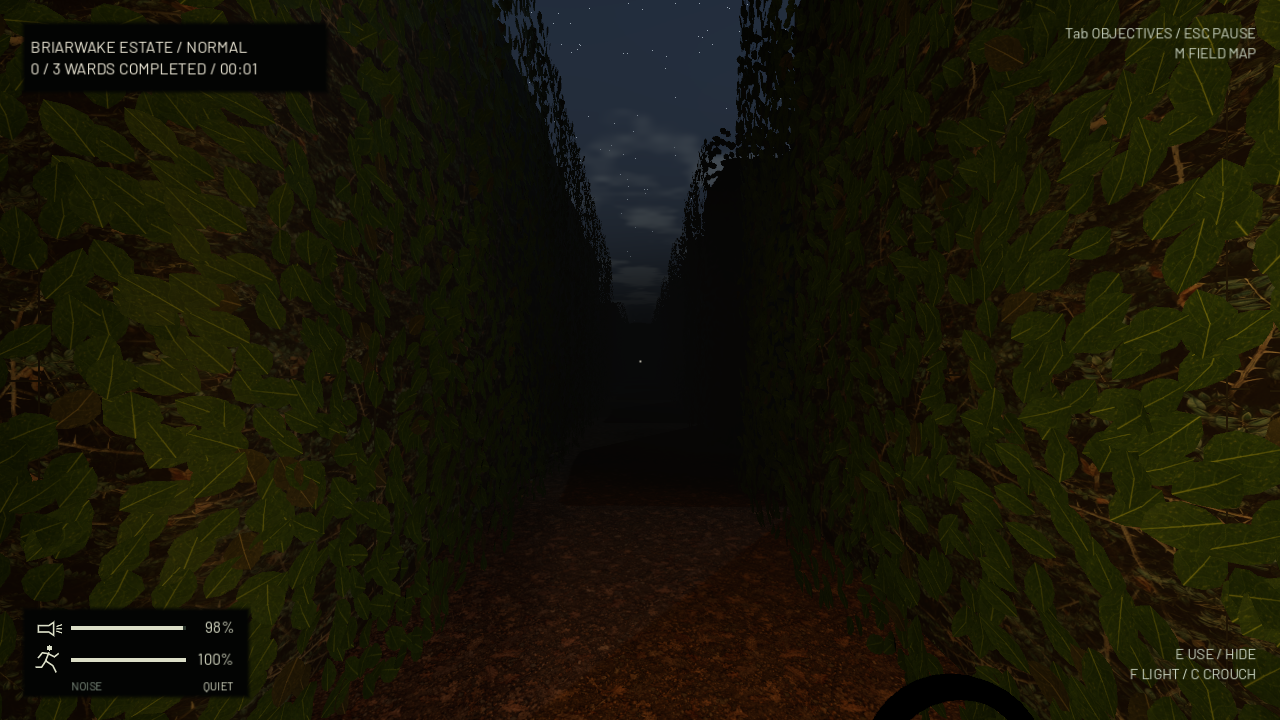
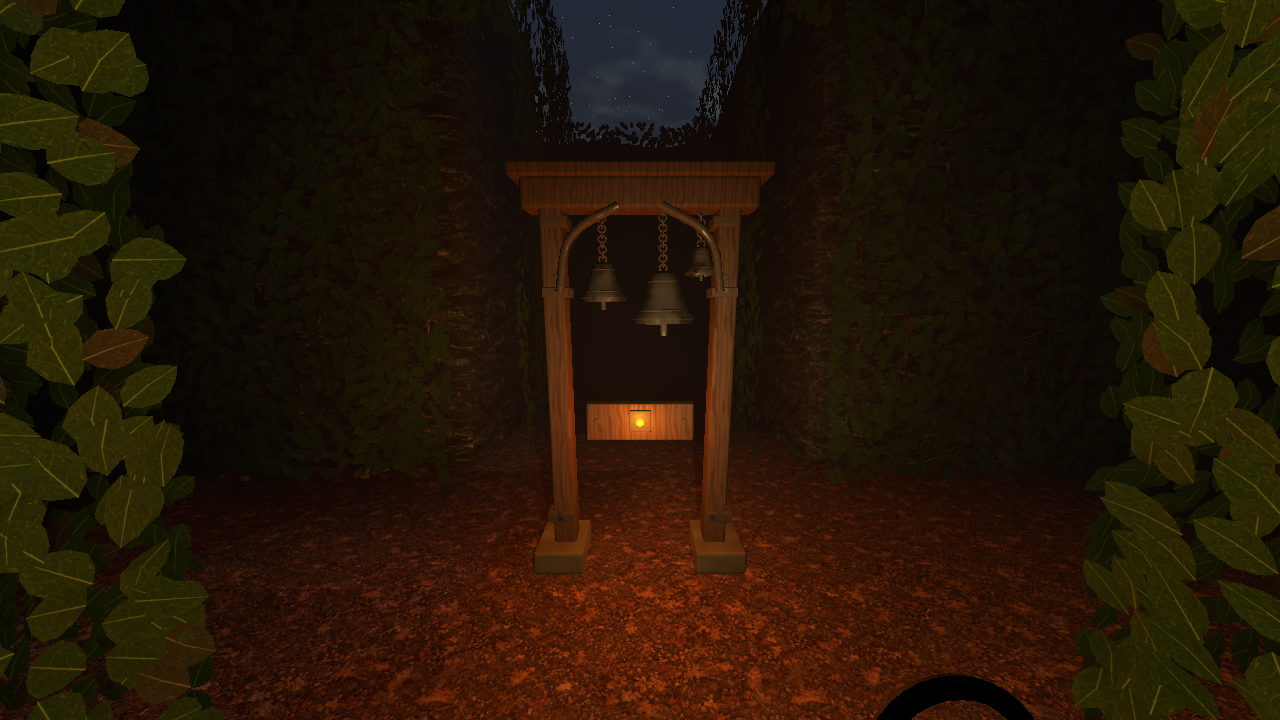
feat: polish maze passages and Easy routes

diff --git a/docs/index.html b/docs/index.html
@@ -23,10 +23,10 @@
     <img class="hero-image" src="./assets/station-key-art.png" alt="Key art: a lone figure beneath a red beacon in a flooded pumping station" fetchpriority="high">
     <div class="hero-shade"></div>
     <div class="hero-copy">
-      <p class="eyebrow"><span class="signal" aria-hidden="true"></span> FREE PLAYABLE ALPHA <span class="build-number">/ 0.23.13</span></p>
+      <p class="eyebrow"><span class="signal" aria-hidden="true"></span> FREE PLAYABLE ALPHA <span class="build-number">/ 0.23.14</span></p>
       <h1 id="game-title">THE HOLLOW<br><span>BELOW</span><i>.</i></h1>
       <p class="tagline">Something down here<br>still remembers your name.</p>
-      <div class="hero-actions"><a class="button primary" href="https://github.com/RyanVerWey/the-hollow-below-alpha/releases/download/v0.23.13/The-Hollow-Below-Alpha-Setup.exe" data-installer-download download>DOWNLOAD INSTALLER <span aria-hidden="true">↓</span></a></div>
+      <div class="hero-actions"><a class="button primary" href="https://github.com/RyanVerWey/the-hollow-below-alpha/releases/download/v0.23.14/The-Hollow-Below-Alpha-Setup.exe" data-installer-download download>DOWNLOAD INSTALLER <span aria-hidden="true">↓</span></a></div>
       <p class="platform-note">Windows 10 / 11 · Solo / 2–4 player co-op · Keyboard &amp; mouse</p>
     </div>
     <div class="hero-bottom"><span>BLACKWATER MUNICIPAL AUTHORITY<br><small>INCIDENT RECORD / 013</small></span><button class="sound-toggle" id="sound-toggle" type="button" aria-pressed="false"><span aria-hidden="true">♫</span> LISTEN TO THE STATION</button><span class="key-art-label">KEY ART / NOT A GAMEPLAY CAPTURE</span></div>
@@ -45,10 +45,10 @@
   <section class="play-section section" id="play" aria-labelledby="play-title">
     <div class="play-heading"><p class="eyebrow">02 / ACCESS AUTHORIZED</p><h2 id="play-title">GO BELOW.</h2><p>Free alpha. No account. No engine to install.</p></div>
     <div class="download-panel">
-      <div class="release-line"><span class="availability"><span class="signal" aria-hidden="true"></span> ALPHA AVAILABLE</span><span id="release-version">BUILD 0.23.13</span></div>
+      <div class="release-line"><span class="availability"><span class="signal" aria-hidden="true"></span> ALPHA AVAILABLE</span><span id="release-version">BUILD 0.23.14</span></div>
       <h3>WINDOWS ALPHA</h3><p class="download-description">The full game and its own launcher in one Windows installer. Install once, then return through your desktop or Start menu shortcut.</p>
-      <a class="button primary download-launcher" href="https://github.com/RyanVerWey/the-hollow-below-alpha/releases/download/v0.23.13/The-Hollow-Below-Alpha-Setup.exe" data-installer-download download>DOWNLOAD INSTALLER <span aria-hidden="true">↓</span></a>
-      <p class="download-facts" id="download-facts">Windows 10 / 11, 64-bit · Full installer: 391.1 MB</p>
+      <a class="button primary download-launcher" href="https://github.com/RyanVerWey/the-hollow-below-alpha/releases/download/v0.23.14/The-Hollow-Below-Alpha-Setup.exe" data-installer-download download>DOWNLOAD INSTALLER <span aria-hidden="true">↓</span></a>
+      <p class="download-facts" id="download-facts">Windows 10 / 11, 64-bit · Full installer: 394.6 MB</p>
       <ol class="install-steps"><li>Open the installer and choose <b>Install</b>.</li><li>Open the launcher and choose <b>Play game</b>.</li><li>Return using your desktop or Start menu shortcut.</li></ol>
       <p class="alpha-note">Early, unsigned alpha software. Windows may show a publisher warning. There is no save system yet.</p>
       <p class="launcher-features">Game-file verification · Offline play · No administrator needed<br>Uninstall through Windows Installed apps.</p>
@@ -58,7 +58,7 @@
   <section class="field-section section" id="field-notes" aria-labelledby="notes-title">
     <div class="field-heading"><p class="eyebrow">03 / FIELD NOTES</p><h2 id="notes-title">BEFORE YOU ENTER.</h2></div>
     <div class="field-grid"><div class="controls"><h3>Keep these close.</h3><dl><div><dt>Move</dt><dd>W A S D</dd></div><div><dt>Look</dt><dd>MOUSE / ARROWS</dd></div><div><dt>Sprint</dt><dd>SHIFT</dd></div><div><dt>Crouch</dt><dd>C / CTRL</dd></div><div><dt>Flashlight</dt><dd>F</dd></div><div><dt>Use / hide</dt><dd>E</dd></div><div><dt>Objectives</dt><dd>TAB</dd></div><div><dt>Survey in staging</dt><dd>M</dd></div><div><dt>Difficulty in staging</dt><dd>R</dd></div><div><dt>Pause</dt><dd>ESC</dd></div></dl></div>
-    <div class="faq"><details open><summary>What is in this alpha?</summary><p>Godot alpha 0.23.13. Blackwater’s surface gate is recessed into a real wall opening, with a concrete bulkhead, steel frame and service stairs behind the doors. The doors no longer stand in the middle of the room. Everyone in a co-op group should update. Play solo or host private co-op for 2–4 players using invite codes. Choose from four survivors and save your own display name. The host selects either level and difficulty. Survivors start separately, share objectives and map discoveries, and must each escape. Death or escape lets you spectate. The host must stay connected; online menus do not pause the hunt. Internet is required for co-op; solo play remains offline. Two playable nightmares: Blackwater pumping station and Briarwake Estate, a moonlit hedge maze. Briarwake has a blood-moon sky, drifting haze, damp dirt paths and joined hedges. Its farmer wears a stitched hood and leather apron, carries a two-handed chainsaw, and uses authored walk, run and three attack animations. New iron oil lanterns mark corridor turns. Its chainsaw attacks have a visible windup, a committed swing and recovery; cover and retreat can prevent a hit. Briarwake has a safe potting house, dim lanterns, cold haze, tool shelters and the Thornkeeper: a demonic farmer carrying a chainsaw. Restore three wards in any order. The Lantern Ward strengthens guide lights and doubles portable-lantern endurance; the Wind Bell adds player tracking and a reusable nearby stagger; the Root Altar opens three thorn shortcuts. Any ward unlocks the M-toggle survey; seen objectives are recorded on the map; unseen locations remain hidden. Restore all three and return to the estate gate. Hear the saw approach before you see him. Both levels share the same HUD, map legend, objective checklist, pause controls and settings. Found objectives gain amber map pins; completed objectives turn green. Both levels offer Easy, Normal, Hard and Nightmare, with different routes, lighting, equipment and hunting. Nightmare removes portable light and sprint and locks most hiding places. Blackwater retains its breaker progression and live field map. Electrical buzzing grows louder near unpowered breakers, carries around corners and stops when restored. In Briarwake, follow lantern wind and loose metal, a creaking bell hanger with dull clapper, or dry root groans to dormant wards. Each falls silent when restored. Its harmless corner scares now have roughly half the former cooldown, with shorter retries when placement fails. Corn Maze and Stone Labyrinth remain Coming Soon. TAB shows objectives; Escape pauses and resumes. Restarting or leaving a run requires confirmation that progress will not be saved. Controls &amp; settings offers Fullscreen, Borderless and Windowed, resolution, three graphics presets, V-Sync and a frame limit. Display changes revert unless confirmed. The title menu includes Quit to desktop.</p></details><details><summary>How do I play with friends?</summary><p>Open Play with Friends, enter your name and host a private lobby. Share its invite code with up to three friends. Everyone chooses a survivor and readies up; the host chooses the level and difficulty and starts the descent. You begin in different maze sectors, share objective progress and each need to reach the exit. No account or port forwarding is needed. Co-op requires Internet; the host must keep the game open. Menus do not pause online play. Solo play remains available offline.</p></details><details><summary>How do updates work?</summary><p>The launcher checks for updates when it opens. When a newer alpha is available, choose Update &amp; restart. It downloads and verifies the full installer, installs the update, and reopens the launcher. Close the game before updating. Installed play stays available offline. Older launchers need the latest full installer once to enable this feature.</p></details><details><summary>Can I play on my phone or with a controller?</summary><p>This alpha is built for a desktop keyboard and mouse. Mobile, controller support and saved progress are not available.</p></details><details><summary>Is this on Steam?</summary><p>Not yet. This is an early independent playtest, shared directly while the game grows.</p></details><details><summary>Found something broken?</summary><p>Send the person who shared the game your build number, Windows version, what happened, and the steps that caused it. A screenshot helps. Windows logs: <code>%APPDATA%\Godot\app_userdata\The Hollow Below\logs</code>.</p></details></div></div>
+    <div class="faq"><details open><summary>What is in this alpha?</summary><p>Godot alpha 0.23.14. A visual patrol pass adds original Blender service bays, pressure gauges, valves and floor drains to Blackwater, plus weathered stone urns and rooted remnants to sparse Briarwake passages. Placement reserves objective, refuge, cabinet and lantern space. Everyone in a co-op group should update. Play solo or host private co-op for 2–4 players using invite codes. Choose from four survivors and save your own display name. The host selects either level and difficulty. Survivors start separately, share objectives and map discoveries, and must each escape. Death or escape lets you spectate. The host must stay connected; online menus do not pause the hunt. Internet is required for co-op; solo play remains offline. Two playable nightmares: Blackwater pumping station and Briarwake Estate, a moonlit hedge maze. Briarwake has a blood-moon sky, drifting haze, damp dirt paths and joined hedges. Its farmer wears a stitched hood and leather apron, carries a two-handed chainsaw, and uses authored walk, run and three attack animations. New iron oil lanterns mark corridor turns. Its chainsaw attacks have a visible windup, a committed swing and recovery; cover and retreat can prevent a hit. Briarwake has a safe potting house, dim lanterns, cold haze, tool shelters and the Thornkeeper: a demonic farmer carrying a chainsaw. Restore three wards in any order. The Lantern Ward strengthens guide lights and doubles portable-lantern endurance; the Wind Bell adds player tracking and a reusable nearby stagger; the Root Altar opens three thorn shortcuts. Any ward unlocks the M-toggle survey; seen objectives are recorded on the map; unseen locations remain hidden. Restore all three and return to the estate gate. Hear the saw approach before you see him. Both levels share the same HUD, map legend, objective checklist, pause controls and settings. Found objectives gain amber map pins; completed objectives turn green. Both levels offer Easy, Normal, Hard and Nightmare, with different routes, lighting, equipment and hunting. Nightmare removes portable light and sprint and locks most hiding places. Blackwater retains its breaker progression and live field map. Electrical buzzing grows louder near unpowered breakers, carries around corners and stops when restored. In Briarwake, follow lantern wind and loose metal, a creaking bell hanger with dull clapper, or dry root groans to dormant wards. Each falls silent when restored. Its harmless corner scares now have roughly half the former cooldown, with shorter retries when placement fails. Corn Maze and Stone Labyrinth remain Coming Soon. TAB shows objectives; Escape pauses and resumes. Restarting or leaving a run requires confirmation that progress will not be saved. Controls &amp; settings offers Fullscreen, Borderless and Windowed, resolution, three graphics presets, V-Sync and a frame limit. Display changes revert unless confirmed. The title menu includes Quit to desktop.</p></details><details><summary>How do I play with friends?</summary><p>Open Play with Friends, enter your name and host a private lobby. Share its invite code with up to three friends. Everyone chooses a survivor and readies up; the host chooses the level and difficulty and starts the descent. You begin in different maze sectors, share objective progress and each need to reach the exit. No account or port forwarding is needed. Co-op requires Internet; the host must keep the game open. Menus do not pause online play. Solo play remains available offline.</p></details><details><summary>How do updates work?</summary><p>The launcher checks for updates when it opens. When a newer alpha is available, choose Update &amp; restart. It downloads and verifies the full installer, installs the update, and reopens the launcher. Close the game before updating. Installed play stays available offline. Older launchers need the latest full installer once to enable this feature.</p></details><details><summary>Can I play on my phone or with a controller?</summary><p>This alpha is built for a desktop keyboard and mouse. Mobile, controller support and saved progress are not available.</p></details><details><summary>Is this on Steam?</summary><p>Not yet. This is an early independent playtest, shared directly while the game grows.</p></details><details><summary>Found something broken?</summary><p>Send the person who shared the game your build number, Windows version, what happened, and the steps that caused it. A screenshot helps. Windows logs: <code>%APPDATA%\Godot\app_userdata\The Hollow Below\logs</code>.</p></details></div></div>
   </section>
 </main>
 <footer class="footer"><a class="brand footer-brand" href="#">THE HOLLOW BELOW<span>THE STATION IS STILL LISTENING.</span></a><button id="share" class="inline-button" type="button">Copy playtest link <span aria-hidden="true">↗</span></button><p>Independent horror alpha · 2026<br><a href="./assets/audio-credits.txt">Audio credits</a></p><span id="share-status" class="sr-only" role="status"></span></footer>

diff --git a/README.md b/README.md
@@ -5,9 +5,9 @@ Free Windows horror alpha. Solo and private co-op for up to four players. Keyboa
 ## Play
 
 - **[Official playtest website](https://ryanverwey.github.io/the-hollow-below-alpha/)**
-- **[Download the Windows installer](https://github.com/RyanVerWey/the-hollow-below-alpha/releases/download/v0.23.13/The-Hollow-Below-Alpha-Setup.exe)**
+- **[Download the Windows installer](https://github.com/RyanVerWey/the-hollow-below-alpha/releases/download/v0.23.14/The-Hollow-Below-Alpha-Setup.exe)**
 
-- [Release files and notes](https://github.com/RyanVerWey/the-hollow-below-alpha/releases/tag/v0.23.13)
+- [Release files and notes](https://github.com/RyanVerWey/the-hollow-below-alpha/releases/tag/v0.23.14)
 
 On Windows, open the installer, choose **Install**, then open the launcher and choose **Play game**. Desktop and Start menu shortcuts are included. The launcher checks for updates when opened. Choose **Update & restart** to download, verify and install a newer release, then reopen the launcher. Close the game first. Installed play works offline. Launchers from before this feature need the latest full installer once. Portable copies are updated manually. No administrator access or game development tools are required.
 
@@ -87,3 +87,7 @@ Close the game, then choose **Check for updates** and **Update & restart** in th
 ## Godot alpha 0.23.13
 
 Blackwater has a wall-integrated surface exit with framed inward-opening doors, a recessed service stair and fixed identification plates. Escape prompts and host validation share the same doorway bounds. Verified across all difficulties, with native collision/GPU checks, four-player regression tests and a private installer upgrade. Everyone in a group should update; existing settings are preserved.
+
+## Godot alpha 0.23.14
+
+Original Blender passage details add service gauges, valves and drains to Blackwater, and weathered urns and roots to Briarwake. The estate wind bell and root altar have new detailed models with mounted signals. Easy and Normal have fewer redundant shortcuts; every objective and refuge remains reachable. Easy hunters gain on ordinary walking while its resource advantages remain. Blackwater breaker audio reaches 35 m, down from 40 m. All co-op players must update; older protocols cannot join these lobbies. Existing settings are preserved.
